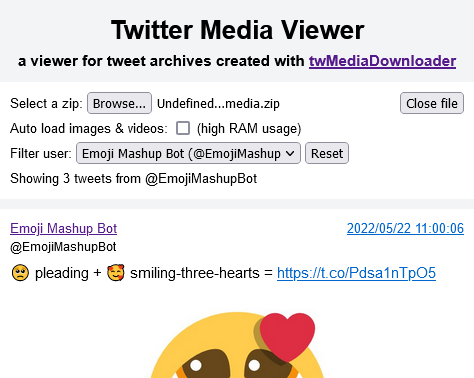
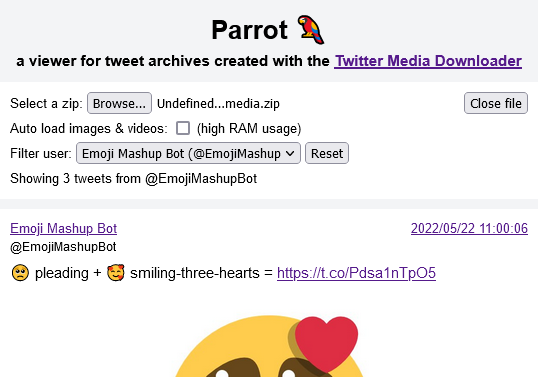
Rename (#1)
* Update .gitignore
* Update build.php
* Update README.md
* Rename twMediaViewer.html
* Update parrot-tweet-viewer.html
* Update meta-image.png
* Update README.md
* Update meta-image.png

diff --git a/templates/parrot-tweet-viewer.html b/templates/parrot-tweet-viewer.html
@@ -2,18 +2,18 @@
 <html lang="en">
 	<head>
         <meta charset="UTF-8" />
-		<title>Twitter Media Viewer - a viewer for tweet archives created with the Twitter Media Downloader</title>
+		<title>Parrot - A viewer for tweet archives created with the Twitter Media Downloader</title>
         <meta name="description" content="A viewer for tweet archives created with the Twitter Media Downloader">
 		<meta name="viewport" content="width=device-width" />
         <meta property="og:title" content="Twitter Media Viewer" />
-        <meta property="og:description" content="a viewer for tweet archives created with the Twitter Media Downloader" />
+        <meta property="og:description" content="A viewer for tweet archives created with the Twitter Media Downloader" />
         <meta property="og:image" content="meta-image.png" />
 		{css}
 	</head>
 	<body>
     <div id="container">
         <div id="header">
-            <h1>Twitter Media Viewer</h1>
+            <h1>Parrot 🦜</h1>
             <h3>a viewer for tweet archives created with the <a target="_blank" href="https://github.com/furyutei/twMediaDownloader">Twitter Media Downloader</a></h3>
         </div>
         <div id="options">
@@ -43,17 +43,17 @@
             <div id="note">Enable JavaScript to use this tool</div>
         </noscript>
         <div id="about">
-            <h3>About</h3>
-            <p>Twitter Media Viewer is a browser-based program for viewing tweets from zip archives created with the <a target="_blank" href="https://github.com/furyutei/twMediaDownloader">Twitter Media Downloader</a> browser extension.</p>
-            <h3>How to</h3>
+            <h3>🦜 About</h3>
+            <p>Parrot is a browser-based program for viewing tweets from zip archives created with the <a target="_blank" href="https://github.com/furyutei/twMediaDownloader">Twitter Media Downloader</a> browser extension.</p>
+            <h3>📖 How to</h3>
             <p>Simply select a zip created with twMediaDownloader by clicking the 'browse' button above and the viewer will generate a twitter style interface for viewing the tweets.</p>
-            <h3>Q & A</h3>
+            <h3>❓ Q & A</h3>
 
             <p><i>Is any data upload from my device?</i><br>
             <strong>No.</strong> The viewer runs completely within your web browser and does not collect or transmit any data.</p>
 
             <p><i>Can I run it offline?</i><br>
-            <strong>Yes.</strong> The viewer can be run offline and a single file version is <a href="twMediaViewer.html">available</a> (right click -> save link as).</p>
+            <strong>Yes.</strong> The viewer can be run offline and a single file version is <a href="parrot-tweet-viewer.html">available</a> (right click -> save link as).</p>
             
             <p><i>Does it use any third party JavaScript libraries?</i><br>
             <strong>Yes.</strong> The viewer uses two third party JavaScript libraries:</p>

diff --git a/build.php b/build.php
@@ -82,13 +82,13 @@ function save(string $page, string $path)
 
 try {
 	// All one version
-	$page = loadfile('templates/twMediaViewer.html');
+	$page = loadfile('templates/parrot-tweet-viewer.html');
 	$page = addInlineParts($page, $files);
 	$page = addBuildDetails($page);
-	save($page, 'public/twMediaViewer.html');
+	save($page, 'public/parrot-tweet-viewer.html');
 
 	// Main website version
-	$page = loadfile('templates/twMediaViewer.html');
+	$page = loadfile('templates/parrot-tweet-viewer.html');
 	$page = addExternalParts($page, $files);
 	$page = addBuildDetails($page);
 	save($page, 'public/index.html');

diff --git a/README.md b/README.md
@@ -1,4 +1,4 @@
-# Twitter Media Viewer
+# Parrot 🦜
 ![screenshot](public/meta-image.png)
 
 A browser-based viewer for tweet archives created with the [Twitter Media Downloader](https://github.com/furyutei/twMediaDownloader) browser extension.
